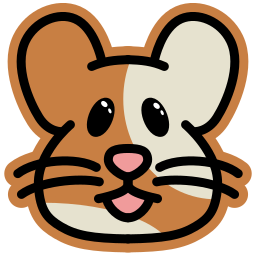
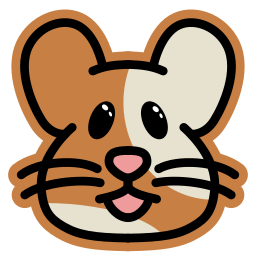
refactor: compute viewBox from actual geometry instead of source canvas
Replace the viewBox padding approach with true auto-fit that computes
bounding boxes from path control points and transformed ellipses,
including mirrored copies. This makes the output independent of the
source SVG's canvas size.

https://github.com/altendky/hamster/pull/69#discussion_r3005074077

diff --git a/brand/generate.py b/brand/generate.py
@@ -26,6 +26,7 @@ Usage:
 from __future__ import annotations
 
 import copy
+import math
 from pathlib import Path
 import re
 import xml.etree.ElementTree as ET
@@ -570,18 +571,38 @@ def find_layer_by_label(root: ET.Element, label: str) -> ET.Element:
 
 
 def get_layer_stroke_width(layer: ET.Element) -> float | None:
-    """Get the stroke width used in a layer (assumes uniform width)."""
+    """Get the uniform stroke width used in a layer.
+
+    Scans all stroked elements and verifies they share the same width.
+
+    Raises:
+        ValueError: If stroked elements have different stroke widths.
+    """
+    widths: set[float] = set()
     for elem in layer.iter():
         if has_stroke(elem):
             width = get_stroke_width(elem)
             if width is not None:
-                return width
-    return None
+                widths.add(width)
+    if not widths:
+        return None
+    if len(widths) > 1:
+        msg = f"Non-uniform stroke widths in layer: {sorted(widths)}"
+        raise ValueError(msg)
+    return next(iter(widths))
 
 
 def deep_copy_element(elem: ET.Element) -> ET.Element:
-    """Create a deep copy of an element and all its children."""
-    return copy.deepcopy(elem)
+    """Create a deep copy of an element, stripping ``id`` attributes.
+
+    Copied elements lose their ``id`` to avoid duplicate IDs in the
+    output SVG.  Intentional IDs (e.g. ``boundary-clip``) are assigned
+    explicitly on freshly created elements, not on copies.
+    """
+    clone = copy.deepcopy(elem)
+    for node in clone.iter():
+        node.attrib.pop("id", None)
+    return clone
 
 
 def modify_stroke_style(
@@ -737,71 +758,174 @@ def create_clipped_layer(
     return output_group
 
 
-def parse_viewbox(root: ET.Element) -> tuple[float, float, float, float]:
-    """Parse viewBox from SVG root element.
+def _path_control_bbox(d: str) -> tuple[float, float, float, float]:
+    """Compute a bounding box from all coordinates in a path 'd' string.
+
+    Uses the convex-hull property of cubic Bézier curves: the curve is
+    always contained within the convex hull of its control points, so
+    the control-point bbox is a conservative (slightly oversized) bound.
 
     Returns:
-        Tuple of (min_x, min_y, width, height).
+        (min_x, min_y, max_x, max_y).
     """
-    viewbox = root.get("viewBox")
-    if viewbox:
-        parts = viewbox.split()
-        return (float(parts[0]), float(parts[1]), float(parts[2]), float(parts[3]))
+    segments = _parse_path_to_absolute(d)
+    xs: list[float] = []
+    ys: list[float] = []
+    for _cmd, pts in segments:
+        for x, y in pts:
+            xs.append(x)
+            ys.append(y)
+    return (min(xs), min(ys), max(xs), max(ys))
 
-    # Fall back to width/height attributes
-    width = float(root.get("width", "256"))
-    height = float(root.get("height", "256"))
-    return (0, 0, width, height)
+
+def _ellipse_bbox(elem: ET.Element) -> tuple[float, float, float, float]:
+    """Compute a bounding box for an ellipse element, accounting for transform.
+
+    Returns:
+        (min_x, min_y, max_x, max_y).
+    """
+    cx = float(elem.get("cx", "0"))
+    cy = float(elem.get("cy", "0"))
+    rx = float(elem.get("rx", "0"))
+    ry = float(elem.get("ry", "0"))
+
+    transform = elem.get("transform", "")
+    if transform.startswith("matrix("):
+        # Parse matrix(a,b,c,d,e,f)
+        values = transform[7:-1].split(",")
+        a, b, c, d, e, f = (float(v) for v in values)
+    elif transform.startswith("rotate("):
+        angle = float(transform[7:-1])
+        rad = math.radians(angle)
+        cos_a, sin_a = math.cos(rad), math.sin(rad)
+        a, b, c, d, e, f = cos_a, sin_a, -sin_a, cos_a, 0.0, 0.0
+    else:
+        a, b, c, d, e, f = 1.0, 0.0, 0.0, 1.0, 0.0, 0.0
+
+    # Transform center
+    tcx = a * cx + c * cy + e
+    tcy = b * cx + d * cy + f
+
+    # For an ellipse under affine transform, the bounding box half-widths are:
+    #   half_w = sqrt((a*rx)^2 + (c*ry)^2)
+    #   half_h = sqrt((b*rx)^2 + (d*ry)^2)
+    half_w = math.sqrt((a * rx) ** 2 + (c * ry) ** 2)
+    half_h = math.sqrt((b * rx) ** 2 + (d * ry) ** 2)
+
+    return (tcx - half_w, tcy - half_h, tcx + half_w, tcy + half_h)
+
+
+def compute_content_bbox(
+    layers: dict[str, ET.Element],
+) -> tuple[float, float, float, float]:
+    """Compute the bounding box of all rendered content.
+
+    Considers paths and ellipses from layers that produce visual output
+    (boundary, whiskers, nose, mouth, eyes), including their mirrored
+    copies.  Spots and eye-highlights are clipped to or inside the
+    boundary, so they don't extend the bbox.
+
+    Returns:
+        (min_x, min_y, max_x, max_y) of the artwork center-lines.
+    """
+    visual_layers = ["boundary", "whiskers", "nose", "mouth", "eyes"]
+    bboxes: list[tuple[float, float, float, float]] = []
+
+    for label in visual_layers:
+        layer = layers.get(label)
+        if layer is None:
+            continue
+
+        for elem in layer.iter():
+            tag = elem.tag
+            if isinstance(tag, str):
+                local = tag.split("}")[-1] if "}" in tag else tag
+            else:
+                continue
+
+            if local == "path":
+                d = elem.get("d")
+                if d:
+                    bb = _path_control_bbox(d)
+                    bboxes.append(bb)
+                    # Mirror
+                    mirror_bb = (256.0 - bb[2], bb[1], 256.0 - bb[0], bb[3])
+                    bboxes.append(mirror_bb)
+            elif local == "ellipse":
+                bb = _ellipse_bbox(elem)
+                bboxes.append(bb)
+                # Mirror
+                mirror_bb = (256.0 - bb[2], bb[1], 256.0 - bb[0], bb[3])
+                bboxes.append(mirror_bb)
+
+    if not bboxes:
+        return (0.0, 0.0, 256.0, 256.0)
+
+    return (
+        min(b[0] for b in bboxes),
+        min(b[1] for b in bboxes),
+        max(b[2] for b in bboxes),
+        max(b[3] for b in bboxes),
+    )
 
 
 def compute_auto_fit_viewbox(
-    original_viewbox: tuple[float, float, float, float],
+    layers: dict[str, ET.Element],
     stroke_width: float,
     target_size: int = 256,
 ) -> tuple[float, float, float, float]:
-    """Compute viewBox that auto-fits content with halo to target size.
+    """Compute a square viewBox that fits all content with halo and margin.
+
+    Measures the actual geometry bounding box from the layer content,
+    then expands by the halo stroke extent and a small margin.
 
     Args:
-        original_viewbox: Original (min_x, min_y, width, height).
+        layers: Dict mapping layer labels to layer elements.
         stroke_width: Original stroke width in source units.
         target_size: Target output size in pixels.
 
     Returns:
         New viewBox as (min_x, min_y, width, height).
     """
-    min_x, min_y, width, height = original_viewbox
+    # Get tight bbox of artwork center-lines
+    content_min_x, content_min_y, content_max_x, content_max_y = compute_content_bbox(
+        layers
+    )
 
-    # The halo extends by (halo_width - original_width) / 2 on each side
-    halo_extension = (HALO_MULTIPLIER - 1) * stroke_width / 2
+    # The halo extends by half the halo width beyond the center-line
+    halo_half = (HALO_MULTIPLIER * stroke_width) / 2
 
-    # Add margin (scaled from 256px target to source units)
+    # Expand bbox by halo extent
+    min_x = content_min_x - halo_half
+    min_y = content_min_y - halo_half
+    max_x = content_max_x + halo_half
+    max_y = content_max_y + halo_half
+
+    width = max_x - min_x
+    height = max_y - min_y
+
+    # Add margin (scaled from target size to source units)
     max_dim = max(width, height)
     margin_in_source = MARGIN * (max_dim / target_size)
+    min_x -= margin_in_source
+    min_y -= margin_in_source
+    width += 2 * margin_in_source
+    height += 2 * margin_in_source
 
-    # Total expansion on each side
-    expansion = halo_extension + margin_in_source
+    # Make it square (center the shorter axis)
+    if width > height:
+        diff = width - height
+        min_y -= diff / 2
+        height = width
+    elif height > width:
+        diff = height - width
+        min_x -= diff / 2
+        width = height
 
-    # New viewBox with expansion
-    new_min_x = min_x - expansion
-    new_min_y = min_y - expansion
-    new_width = width + 2 * expansion
-    new_height = height + 2 * expansion
-
-    # Make it square (use the larger dimension)
-    if new_width > new_height:
-        diff = new_width - new_height
-        new_min_y -= diff / 2
-        new_height = new_width
-    elif new_height > new_width:
-        diff = new_height - new_width
-        new_min_x -= diff / 2
-        new_width = new_height
-
-    return (new_min_x, new_min_y, new_width, new_height)
+    return (min_x, min_y, width, height)
 
 
 def compose_icon_svg(
-    source_root: ET.Element,
     layers: dict[str, ET.Element],
     fills: dict[str, str],
     stroke_width: float,
@@ -809,7 +933,6 @@ def compose_icon_svg(
     """Compose the final icon SVG with layers in correct stacking order.
 
     Args:
-        source_root: Original SVG root element.
         layers: Dict mapping layer labels to layer elements.
         fills: Dict mapping layer labels to fill path 'd' attributes.
         stroke_width: Original stroke width.
@@ -824,9 +947,8 @@ def compose_icon_svg(
         4. Whiskers halo
         5. All black strokes (boundary, whiskers, nose-mouth, eyes)
     """
-    # Get original viewBox and compute auto-fit viewBox
-    original_viewbox = parse_viewbox(source_root)
-    new_viewbox = compute_auto_fit_viewbox(original_viewbox, stroke_width)
+    # Compute viewBox from actual geometry
+    new_viewbox = compute_auto_fit_viewbox(layers, stroke_width)
 
     # Create new SVG root
     ET.register_namespace("", SVG_NS)
@@ -1110,7 +1232,7 @@ def main() -> None:
 
     # Compose output SVG
     print("  Composing icon SVG...")  # noqa: T201
-    icon_svg = compose_icon_svg(source_root, layers, fills, stroke_width)
+    icon_svg = compose_icon_svg(layers, fills, stroke_width)
 
     # Write outputs to HACS brand directory
     OUTPUT_DIR.mkdir(parents=True, exist_ok=True)
